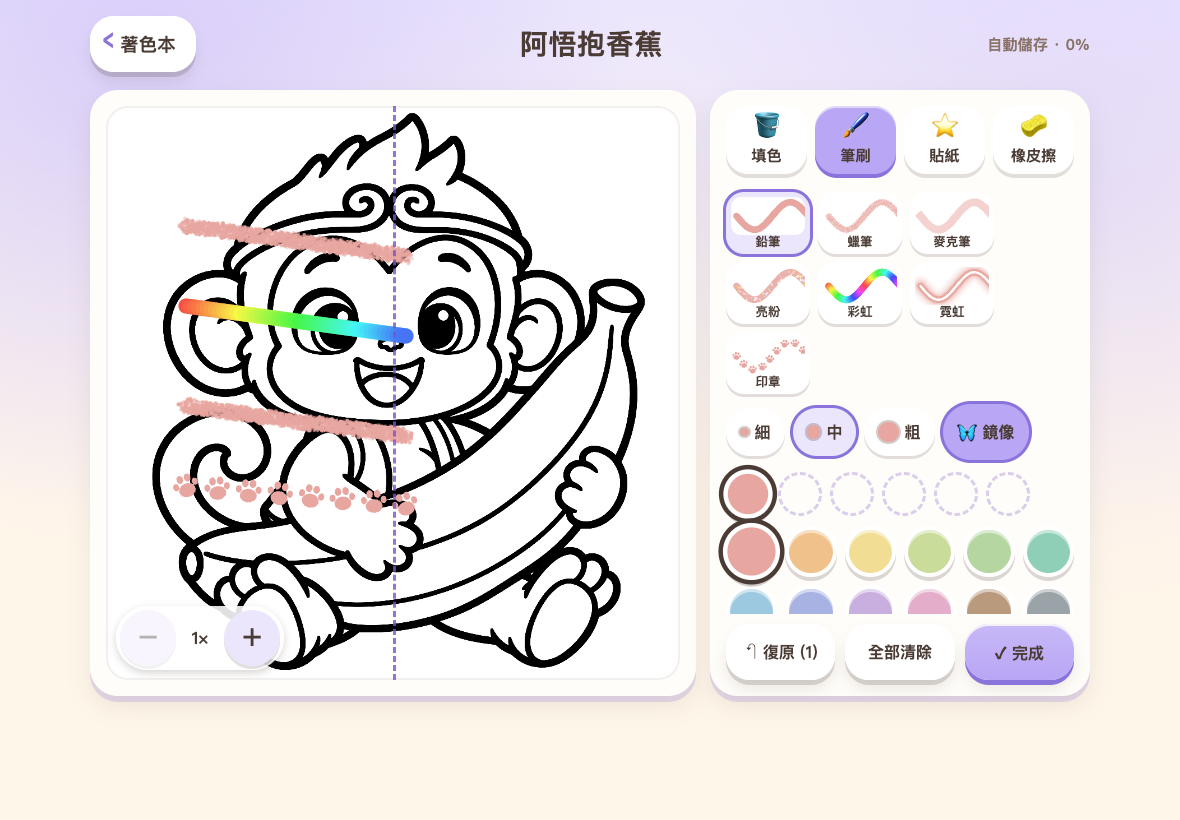
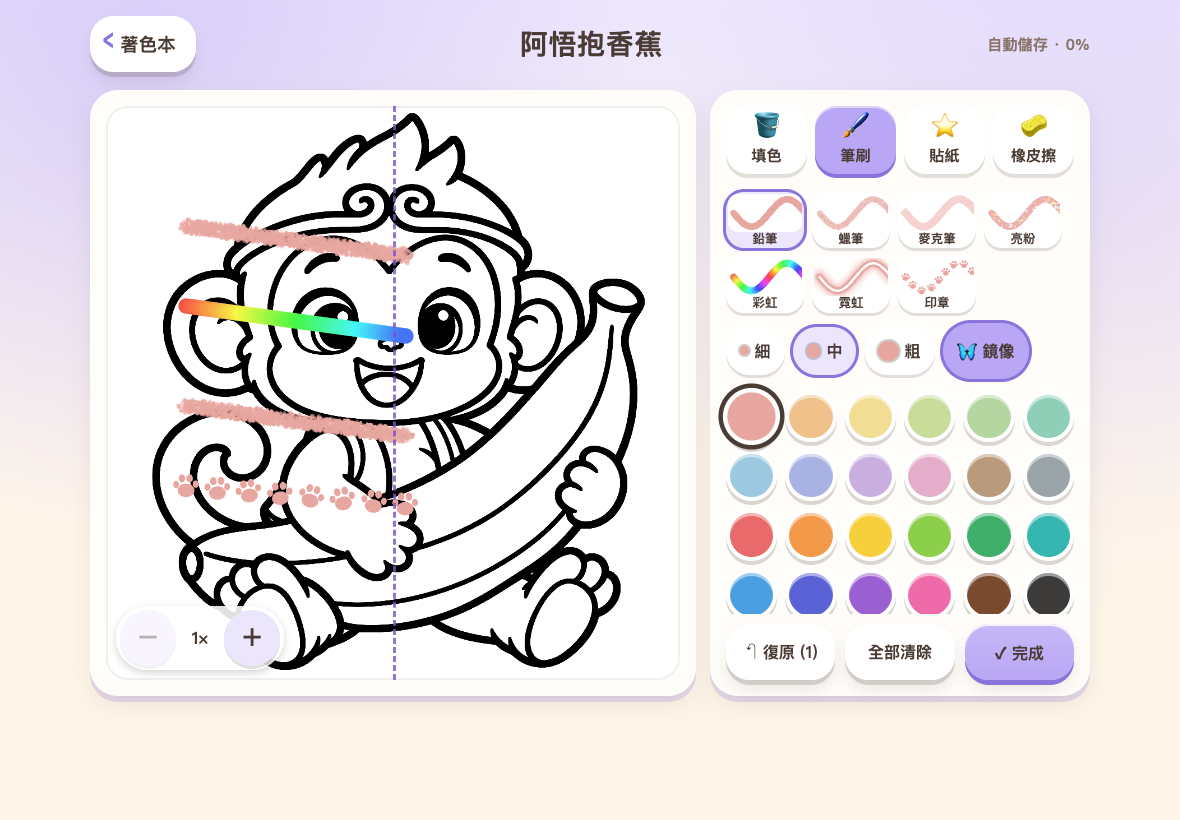
繪圖板：橫向筆刷種類排成 4 欄小卡、筆刷模式收起「最近用過」，24 色不再被擠出面板

diff --git a/src/ui/screens/paintboard.css b/src/ui/screens/paintboard.css
@@ -107,3 +107,12 @@
   .pt-panel .pt-recent .pt-recent-label { position: absolute; width: 1px; height: 1px; overflow: hidden; clip: rect(0 0 0 0); }
   .pt-panel .pt-recent .swatch, .pb-recent-empty { width: 44px; height: 44px; min-height: 44px; }
 }
+
+/* 橫向：筆刷種類排成 4 欄 × 2 列的小卡，讓下方色盤不被擠出畫面 */
+@media (min-aspect-ratio: 5/4) and (min-width: 760px) {
+  .paint .pb-brush-opts > .pb-group:first-child { display: grid; grid-template-columns: repeat(4, 1fr); gap: 8px; }
+  .paint .pb-brush-opts .pb-kind { width: auto; min-height: 56px; padding: 2px 2px 2px; }
+  .paint .pb-brush-opts .pb-kind svg { max-height: 30px; }
+  /* 筆刷模式選項多一列，「最近用過」在這裡收起來（換工具時才變，同一工具內不會跳） */
+  .paint .pb-brush-opts ~ .pt-palette .pt-recent { display: none; }
+}
